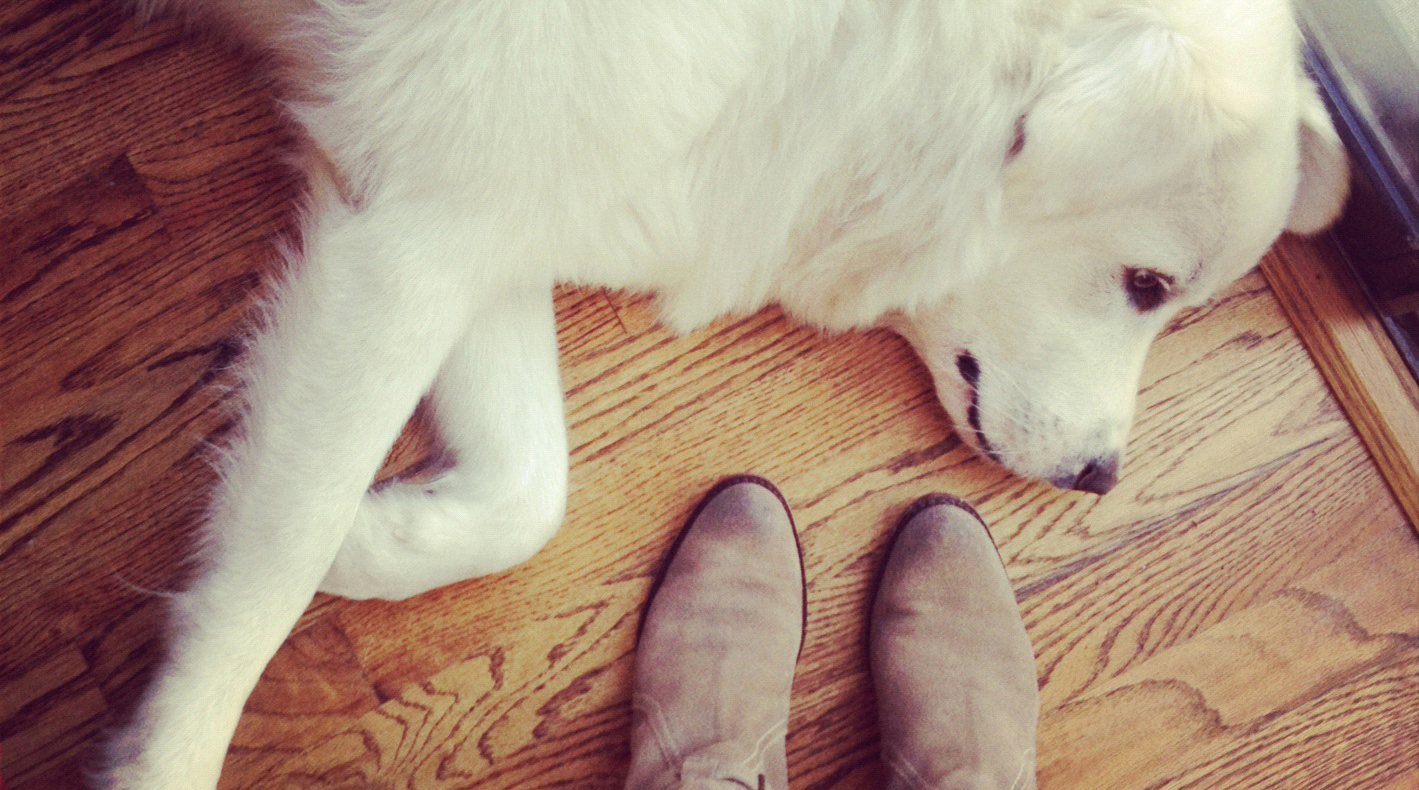
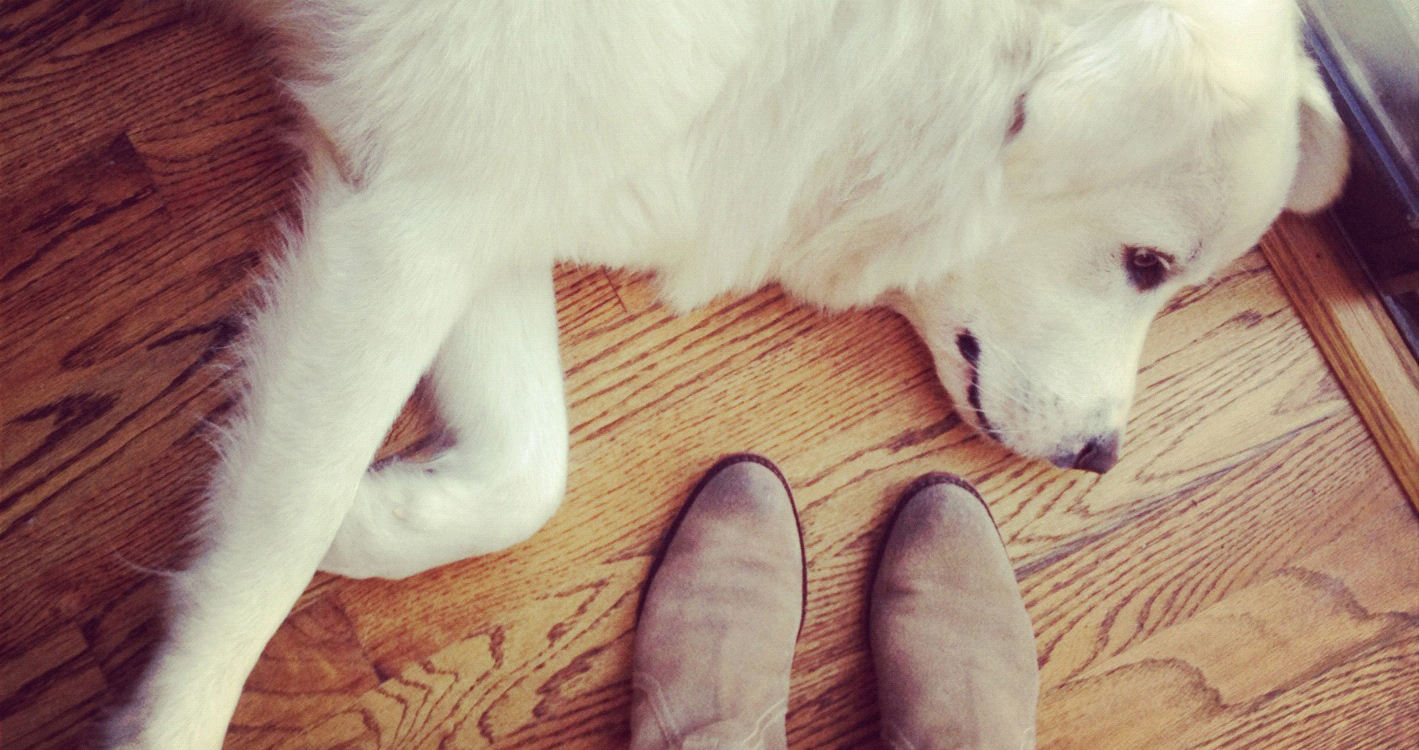
Fixed HTML and FTS image

diff --git a/fresh-tilled-soil/index.html b/fresh-tilled-soil/index.html
@@ -33,7 +33,7 @@
     </div>
 
     <div class="designText">
-      <p class="intro">The banner photo above is also the background on my computer’s desktop. It is a snapshot of my dog, Julius, that I quickly snapped early one morning. This photo illustrates one element in my life that brings me joy, delight, and sometimes even surprises. Every time I look at this photo, it makes me smile. It is these wonderful little connections with life and the human experience that I seek to harvest, bring forth, and translate when approaching design. Designing is about recognizing and tapping into that which delight and engage others. And to be able to recognize those factors, you must have a genuine interest for people, their stories, and how they interact with the things that surround them. A user’s encounter with a product, digital or physical, should not just serve a purpose. A well designed product should be like a friend (or a dog) that is a joyous part of one’s life; or at the VERY least, it should enhance your life by just a little.</p>
+      <p class="intro">The banner photo above is also the background on my computer’s desktop. It is a snapshot of my dog, Julius, that I quickly snapped early one morning. This photo illustrates one element in my life that brings me joy, delight, and sometimes even surprises. Every time I look at this photo, it makes me smile. It is these wonderful little connections with life and the human experience that I seek to harvest, bring forth, and translate when approaching design. Designing is about recognizing and tapping into that which delight and engage others. And to be able to recognize those factors, you must have a genuine interest for people, their stories, and how they interact with the things that surround them. A user’s encounter with a product, digital or physical, should not just serve a purpose. A well designed product should be like a friend (or a dog) that is a joyous part of one’s life; or at the very least, it should enhance your life by just a little.</p>
 
       <p>This snapshot of Julius not only illustrates where I draw inspiration, but how it came to be also encapsulates my thought on the design process. This photo was somewhat spontaneous, yet all the details work together. I wasn’t <span>trying</span> to force a pretty picture. The light happened to be right and bright where he as laying, the colors worked, and this photo captures my lazy dog exactly as I know him. On my way out the door that morning, I recognized these elements and pulled it all together. This photo <span>simply</span> came together because all the suitable components were there. Still, it takes an observant eye to catch it, frame it, and create it. Good design is not forced. It evolves organically when all the right pieces are brought together. However, it takes a practiced eye and ability for seeing when all those elements are aligned.</p>
   </div>
